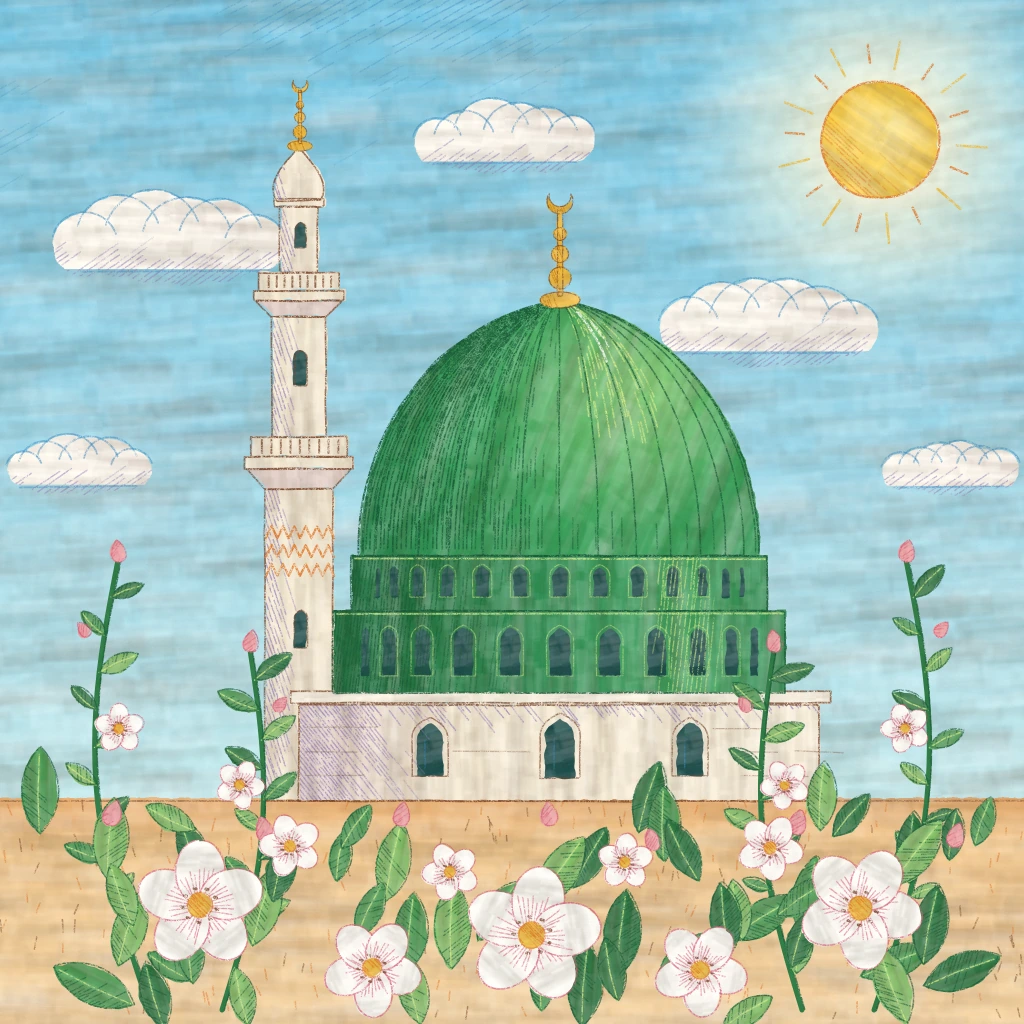
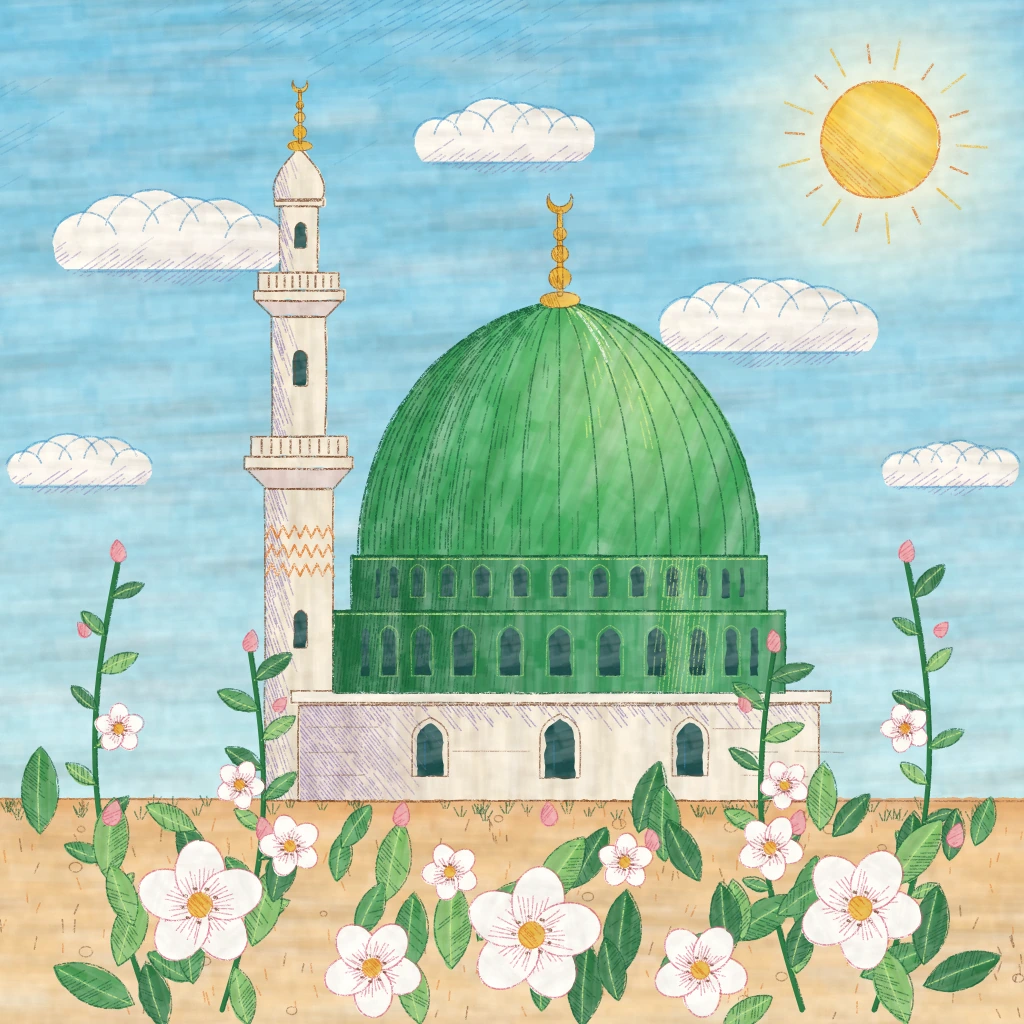
Atölye: üçüncü tur çalışmalarının ara kaydı
Claude-Session: https://claude.ai/code/session_01Q8CfoBGMPN7gfLWQYpMs1J

diff --git a/atolye/stiller/S-069-renkli-kazima/ornek.html b/atolye/stiller/S-069-renkli-kazima/ornek.html
@@ -4,7 +4,7 @@
 <meta charset="utf-8">
 <title>S-069 Renkli Kazıma — Atölye örnek görseli</title>
 <style>
-  html, body { margin: 0; width: 1024px; height: 1024px; overflow: hidden; background: #0b0a0c; }
+  html, body { margin: 0; width: 1024px; height: 1024px; overflow: hidden; background: #a8d2ee; }
   canvas { display: block; width: 1024px; height: 1024px; }
 </style>
 </head>
@@ -12,13 +12,14 @@
 <canvas id="tuval"></canvas>
 <script src="../../sahne/sahne.js"></script>
 <script>
-// S-069 Renkli Kazıma — siyah yüzey kazınarak alttaki renk açığa çıkarılır. Gökte gökkuşağı kazıma kâğıdı
-// (güneşten dışa sarı, turuncu, macenta, mor, mavi, turkuaz), yapıda ve bitkilerde beyaz kil üstüne
-// sürülmüş renkli mürekkepler. Ton, kazıma çizgilerinin sıklığı ve kalınlığıyla kurulur: ışıklı yerde çizgiler
-// kalınlaşıp birleşir, gölgede incelip kesik noktalara döner.
+// S-069 Renkli Kazıma — beyaz kil kaplı kazıma levhası (clayboard) açık ve orta tonlu renkli mürekkeplerle
+// boyanır (gök mavisi, yeşiller, altın sarısı, gül pembesi), sonra sivri uçla kazınır: her kazıma çizgisi
+// alttaki beyaz kili açığa çıkarır. Ton, beyaz çizgilerin sıklığı ve kalınlığıyla kurulur: ışıklı yerde çizgiler
+// kalınlaşıp birleşir (neredeyse beyaz), gölgede incelir ve mürekkebin rengi baskın kalır.
 // Taramalar piksel başına "çizgiye uzaklık" alanından hesaplanır (her öğe kendi biçimini izleyen çizgi
 // ailesiyle: kubbede meridyen + paralel, minarede ve kasnakta silindir çizgileri, gökte yatay dalgalı çizgiler,
 // taç yapraklarda ışınsal çizgiler, yapraklarda damar yönünde balıksırtı); kontur ve vurgu kazımaları tuvale çizilir.
+// Kazınmayan ince çizgiler (kaburgalar, derzler, konturlar) mürekkebin biraz koyulaştığı renkli çizgi olarak kalır.
 (function () {
   'use strict';
   // ------------------------------------------------------------ ortak yardımcılar
@@ -272,15 +273,17 @@
   // ------------------------------------------------------------ alttaki renk
   const rgb = (h) => hex(h);
   const rampa = (cs, t) => { t = clamp(t, 0, 0.9999) * (cs.length - 1); const k = Math.floor(t); return karR(cs[k], cs[k + 1], t - k); };
-  const GOKK = ['#FFF6B0', '#FFD23A', '#FF9A2E', '#FF4F6E', '#E040B8', '#9A4FF0', '#4F6CFF', '#2EB8F0', '#3CE0C8'].map(rgb);
-  const KUBBE = ['#1E4FC8', '#1495A0', '#18B868', '#5EDC5A', '#C8F25A', '#F4FFB0'].map(rgb);
-  const TAS = ['#C86AD8', '#FF8A8C', '#FFB45E', '#FFDA78', '#FFF6D8'].map(rgb);
-  const YAPR = ['#0E8F7A', '#22B85A', '#7ADC3C', '#D6F25A'].map(rgb);
-  const CIC = ['#C21E8C', '#FF4FA0', '#FF9CCB', '#FFE0EE'].map(rgb);
-  const CIC2 = ['#7A2EE0', '#B06CFF', '#DDB8FF', '#F6EAFF'].map(rgb);
-  const CIC3 = ['#E8402E', '#FF7A3C', '#FFB878', '#FFE6C8'].map(rgb);
-  const ZEM = ['#B8401E', '#F07A26', '#FFB43A', '#FFE08A'].map(rgb);
-  const ALT = ['#C87A10', '#FFC22E', '#FFF0A0'].map(rgb);
+  // açık ve orta tonlu mürekkepler (kazınan çizgi beyaz kili gösterir)
+  const GOKK = ['#F6D36E', '#F7DE9A', '#F2EACB', '#B9DDF2', '#8CC6EC', '#6CB2E6', '#58A3DE', '#4F9AD8'].map(rgb);
+  const KUBBE = ['#2B8C5E', '#35A563', '#52BB5C', '#86D058', '#BEE46A', '#E2F29A'].map(rgb);
+  const TAS = ['#B9A3D6', '#DFA6B2', '#ECBE92', '#F2D69C', '#F7E9C8'].map(rgb);
+  const YAPR = ['#2A9668', '#3FAE5A', '#80CA4C', '#C2E26C'].map(rgb);
+  const CIC = ['#D45C8C', '#E883A8', '#F3B0C8', '#FADCE7'].map(rgb);
+  const CIC2 = ['#9C7FD6', '#B8A0E8', '#D6C8F4', '#EEE8FB'].map(rgb);
+  const CIC3 = ['#E8885E', '#F2A87E', '#F7C9A6', '#FCE6D4'].map(rgb);
+  const ZEM = ['#C99558', '#DCAE6C', '#EAC686', '#F4DCA6'].map(rgb);
+  const ALT = ['#BC8526', '#DFAA3C', '#F4D57E'].map(rgb);
+  const PENCERE = rgb('#3E739A'), KIL = [252, 250, 244];
 
   // ------------------------------------------------------------ tarama alanı: çizgiye uzaklık → kazıma kapsaması
   // v: çizgi koordinatı (tam sayılar çizgi merkezi), sp: iki çizgi arası piksel, c: kapsama (0..1)
@@ -405,14 +408,6 @@
         sG.lineWidth = Math.max(0.35, w);
         sG.beginPath(); sG.moveTo(pts[i - 1][0], pts[i - 1][1]); sG.lineTo(x, y); sG.stroke();
       }
-    }
-    // koyu üst gökte seyrek kazınmış noktalar (benek), güneşe doğru küçük çapraz kırpıntılar
-    for (let k = 0; k < 2600; k++) {
-      const x = rr() * 1024, y = rr() * 560;
-      if (!gokMu(x, y)) continue;
-      const L = isikG(x, y);
-      if (rr() > (0.55 - L) * 1.4) continue;
-      sG.fillStyle = '#fff'; sG.beginPath(); sG.arc(x, y, 0.45 + rr() * 0.6, 0, Math.PI * 2); sG.fill();
     }
   }
   const sv = sG.getImageData(0, 0, W2, W2).data;

diff --git a/atolye/stiller/S-113-kalemisi/ornek.html b/atolye/stiller/S-113-kalemisi/ornek.html
@@ -165,8 +165,8 @@
     }
     return d + 'Z';
   }
-  const GUL_DIS = ornekle(gulbezek(14, 8), 0.8);
-  const GUL_IC = ornekle(gulbezek(8.5, 6), 0.8);
+  const GUL_DIS = ornekle(gulbezek(15.5, 8), 0.8);
+  const GUL_IC = ornekle(gulbezek(9.4, 6), 0.8);
   // penç (yelpaze biçimli palmet)
   const PENC = ornekle('M0,6 C-9,6 -13,-1 -11,-7 C-8,-4 -6,-4 -5,-6 C-6,-11 -3,-15 0,-16 C3,-15 6,-11 5,-6 C6,-4 8,-4 11,-7 C13,-1 9,6 0,6 Z', 0.8);
 
@@ -180,7 +180,7 @@
   }
 
   // ------------------------------------------------------------ bordür (kuşak)
-  const DIS = 8, BANT1 = 13, BANT2 = 55, IC = 61; // dış çizgi, ana bant, iç zencerek
+  const DIS = 0, BANT1 = 9, BANT2 = 60, IC = 67; // dış çizgi, ana bant, iç zencerek
   function bordur() {
     // zemin boyaları
     b.fillStyle = RENK.lal;
@@ -205,7 +205,7 @@
       const sapP = [];
       for (let i = 0; i <= 400; i++) {
         const u = (uz * i) / 400;
-        const v = 8.5 * Math.sin((u / T) * Math.PI * 2);
+        const v = 10 * Math.sin((u / T) * Math.PI * 2);
         const [x, y] = kn(u, v);
         sapP.push([x, y]);
       }
@@ -223,16 +223,16 @@
         // gülbezeğin iki yanında, dalın tepe ve çukurunda karşılıklı rumiler
         for (const yan of [-1, 1]) {
           const u = u0 + T / 2 + yan * T * 0.25;
-          const vv = 8.5 * Math.sin((u / T) * Math.PI * 2);
+          const vv = 10 * Math.sin((u / T) * Math.PI * 2);
           const [rx, ry] = kn(u, vv);
           const dis = vv > 0 ? 1 : -1; // dalın dış yanına doğru açılır
           const yon = a + (yan > 0 ? 0 : Math.PI);
-          motif(RUMI, { x: rx, y: ry, a: yon + dis * yan * 0.5 * (yan > 0 ? 1 : -1), s: 0.66, fy: dis * yan < 0 }, RENK.firuze, 1.3);
-          motif(RUMI_GOZ, { x: rx, y: ry, a: yon + dis * yan * 0.5 * (yan > 0 ? 1 : -1), s: 0.66, fy: dis * yan < 0 }, RENK.lacivert, 0.9);
+          motif(RUMI, { x: rx, y: ry, a: yon + dis * yan * 0.5 * (yan > 0 ? 1 : -1), s: 0.74, fy: dis * yan < 0 }, RENK.firuze, 1.3);
+          motif(RUMI_GOZ, { x: rx, y: ry, a: yon + dis * yan * 0.5 * (yan > 0 ? 1 : -1), s: 0.74, fy: dis * yan < 0 }, RENK.lacivert, 0.9);
         }
         // kalıp sınırında küçük penç
         const [px, py] = kn(u0, 0);
-        if (k > 0) motif(PENC, { x: px, y: py, a: a + (k % 2 ? 0 : Math.PI), s: 0.62 }, RENK.asi, 1.1);
+        if (k > 0) motif(PENC, { x: px, y: py, a: a + (k % 2 ? 0 : Math.PI), s: 0.7 }, RENK.asi, 1.1);
       }
     }
     // köşe gülbezekleri
@@ -255,7 +255,7 @@
       }
     }
     // bant çizgileri (tahrir)
-    for (const v of [DIS, BANT1, BANT2, IC]) tahrir(ornekle(`M${v},${v} L${1024 - v},${v} L${1024 - v},${1024 - v} L${v},${1024 - v} Z`, 2), RENK.tahrir, v === DIS ? 1.8 : 1.4, true);
+    for (const v of [BANT1, BANT2, IC]) tahrir(ornekle(`M${v},${v} L${1024 - v},${v} L${1024 - v},${1024 - v} L${v},${1024 - v} Z`, 2), RENK.tahrir, 1.5, true);
   }
 
   // ------------------------------------------------------------ sahne (düz, süslemeci boyama)
@@ -586,7 +586,7 @@
   ctx.drawImage(BOYA.c, 0, 0);
   // sıvanın dişi boyanın içinden de hafifçe görünür
   ctx.globalCompositeOperation = 'multiply';
-  ctx.globalAlpha = 0.5;
+  ctx.globalAlpha = 0.85;
   {
     const c = S.yeniTuval(1024, 1024), x = c.getContext('2d');
     const im = x.createImageData(1024, 1024), d = im.data;

diff --git a/atolye/stiller/S-108-kagit-mozaik/ornek.html b/atolye/stiller/S-108-kagit-mozaik/ornek.html
@@ -67,7 +67,7 @@
   const GOKP = palet(['#D6EEFB', '#BDE2F8', '#9FD2F4', '#82C1F0', '#68AFEC', '#529FE6', '#4290DF']);
   const SICAK = hex('#FFF3C8');
   const BULUTP = palet(['#DCE8F6', '#E8F0FA', '#F2F7FC', '#FAFCFE']);
-  const ZEMINP = palet(['#E2C68C', '#EBD5A2', '#F3E3BC', '#F8EDD2']);
+  const ZEMINP = palet(['#DDBF82', '#E6CC97', '#EED9B0', '#F4E5C6']);
   const KREMP = palet(['#D6CDB9', '#E1D9C7', '#EAE3D3', '#F2ECDF', '#F8F3E8']);
   const ALTINP = palet(['#D19A26', '#E2B33A', '#F0C94E', '#F8DD7A']);
   const KUBBEP = palet(['#1C6A35', '#227A3D', '#2A8A45', '#35994E', '#43A85A', '#58B966', '#70C874', '#8AD584']);
@@ -191,10 +191,10 @@
       boya(id, S.yol(sol.concat(sag), true));
     }
     const KAB = et({ mod: 'serit', h: 8, renk: (x, y, r) => sec(palet(['#155028', '#195A2F', '#1D6535']), 0.5, r, 3) });
-    for (const k of S.kaburgalar(16)) boya(KAB, S.yol(k.noktalar.slice(0, -3)), 3.2 + 2.6 * Math.cos(k.boylam));
+    for (const k of S.kaburgalar(16)) boya(KAB, S.yol(k.noktalar.slice(0, -3)), 4.2 + 2.8 * Math.cos(k.boylam));
     // tepe: kaburgaların birleştiği yerde halka sıralı küçük parçalar
     const TEPE = et({ mod: 'kontur', h: 6, renk: kubbeRenk });
-    lc.save(); lc.beginPath(); lc.rect(0, 0, 1024, 342); lc.clip(); boya(TEPE, S.kubbeYolu); lc.restore();
+    lc.save(); lc.clip(new Path2D(S.daireYolu(560, 302, 34))); boya(TEPE, S.kubbeYolu); lc.restore();
   }
   alemCiz(S.alemParcalari(560, 300, 1));
 

diff --git a/atolye/stiller/S-098-guaj-ve-kuru-boya/ornek.html b/atolye/stiller/S-098-guaj-ve-kuru-boya/ornek.html
@@ -399,7 +399,7 @@
     kes.rect(cx - 400, cy - 300, 800, 300 + 18 * s);
     ctx.save();
     ctx.clip(kes);
-    guaj(yol, C.bulut, [sol - 80 * s, cy - 120 * s, sag + 80 * s, cy + 40 * s], { aci: 0.05 });
+    guaj(yol, C.bulut, [sol - 80 * s, cy - 120 * s, sag + 80 * s, cy + 40 * s], { aci: 0.05, iz: 0.6 });
     ctx.restore();
     // kalem: bulutun üst yayları boyunca gevşek çizgi, altta lila tarama
     for (const [x, y, r] of daireler) {
@@ -601,7 +601,7 @@
       g.addColorStop(0.42, C.kubbe);
       g.addColorStop(1, C.kubbeKoyu);
       return g;
-    }, bb, { aci: -1.2, olcek: 1.2 });
+    }, bb, { aci: -Math.PI / 2, olcek: 1.2, iz: 0.75 });
     // guajla sürülmüş açık yeşil ışık lekesi (kaburga yönünde)
     const prof = S.kubbeProfili(60);
     const mer = (u, t1, t2) => prof.slice(Math.round(t1 * 60), Math.round(t2 * 60) + 1).map((q) => [560 + u * q.r, q.y]);
